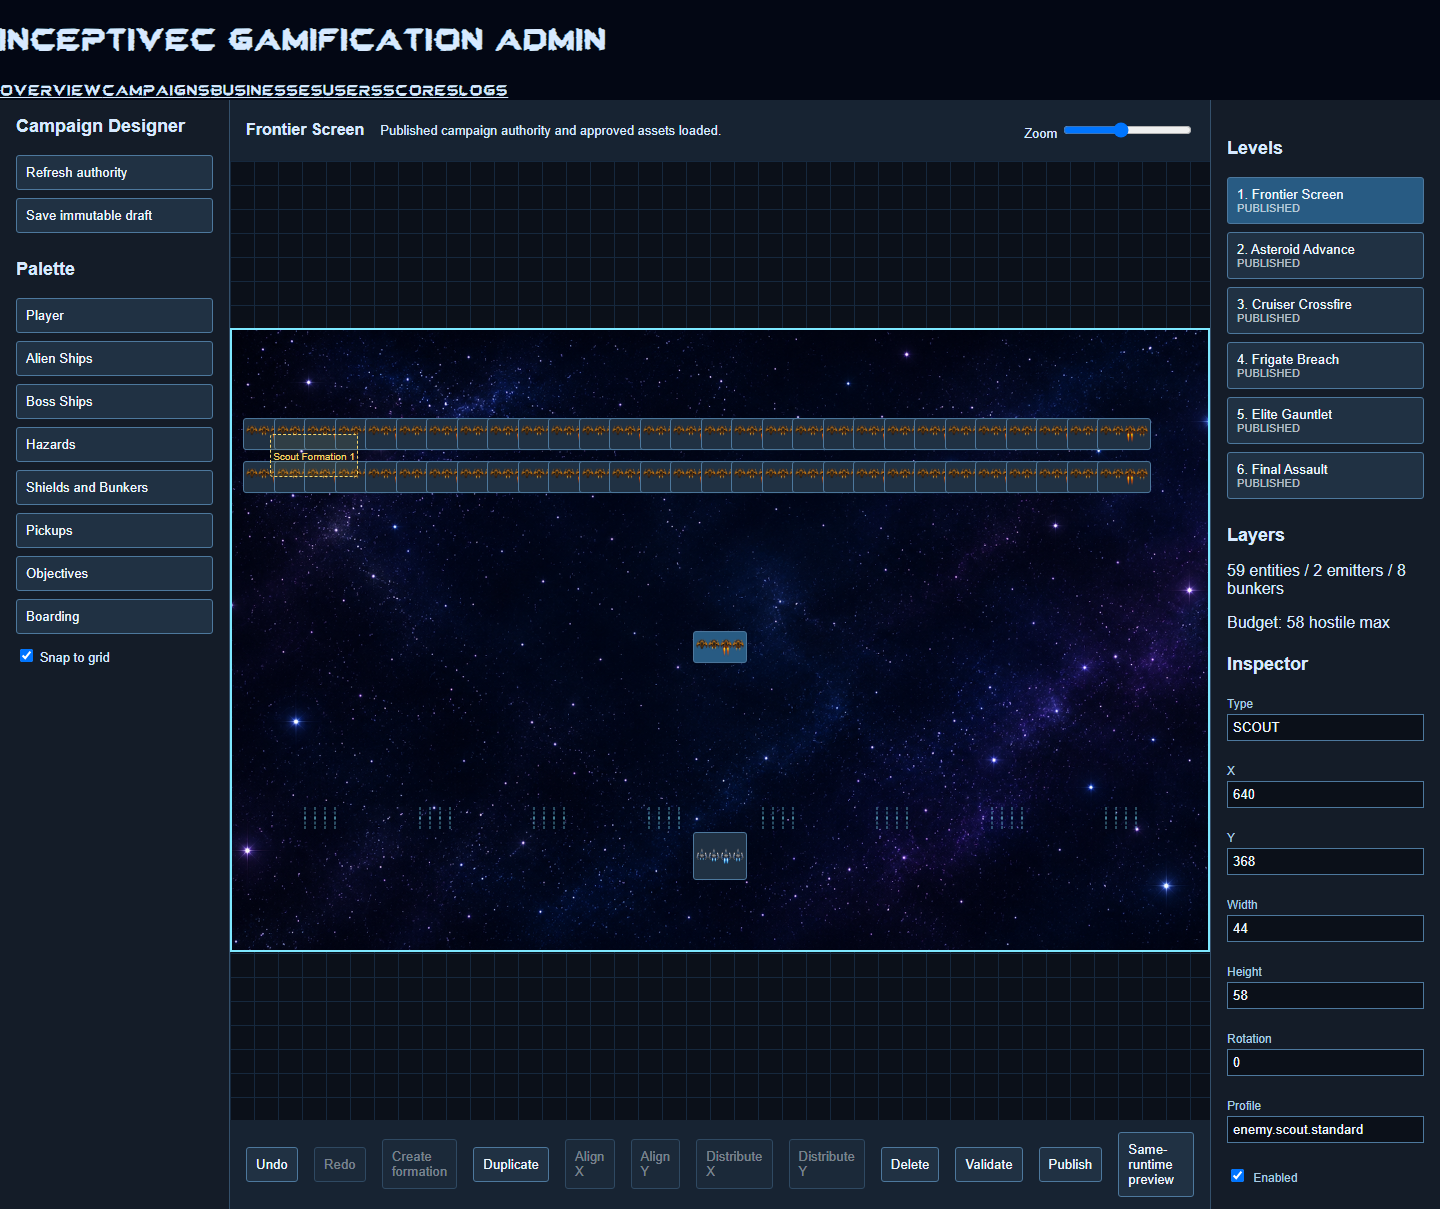
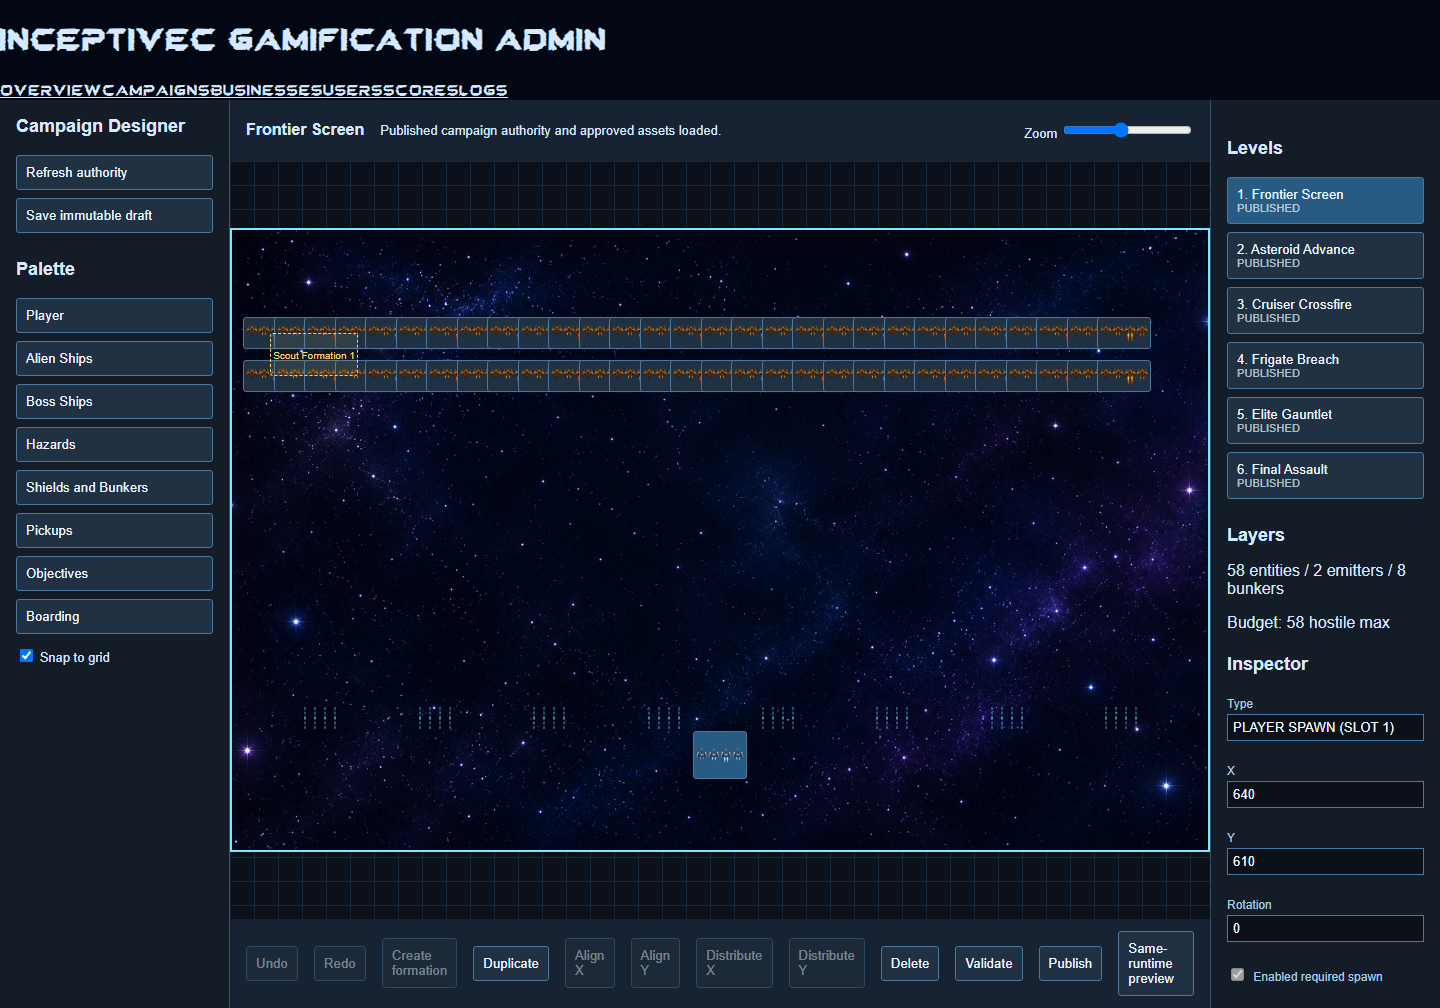
docs(h015): record rectified browser verification

diff --git a/docs/internal_governance/registers/GG_REGISTER_HANDOFF_COMMISSION.md b/docs/internal_governance/registers/GG_REGISTER_HANDOFF_COMMISSION.md
@@ -32,4 +32,4 @@
 | GALACTIC_GUNNERS_DEVTEAM_HANDOFF_IN_011_APP1_HOTFIX1 | HOTFIX1 | Founder Michael Leese | CODEX_DEVELOPMENT_AGENT_GG_DEVTEAM_011_WORKER_001 | feature/v1-config-driven-campaign-platform | ac60eb016543b11cb28bdf4f57c6385625901ebb | transport ZIP SHA 9978CDAF1353F64B2C1BFED931C062154C3D1D068340603404FC942EC74410B9; unpacked archive and POST_BOX disposition recorded | pooled projectile spawn/body reconciliation and Founder Level 1 corrections complete | GALACTIC_GUNNERS_DEVTEAM_HANDOFF_OUT_011_APP1_HOTFIX1 | recorded externally after final push | recorded externally after final push | PASS TARGET - CTO / FOUNDER GATE | PENDING CTO / FOUNDER REVIEW |
 | GALACTIC_GUNNERS_DEVTEAM_HANDOFF_IN_012_REV1_APP1 | REV1 APP1 | Founder Michael Leese | CODEX_DEVELOPMENT_AGENT_GG_DEVTEAM_012_WORKER_001 | feature/v1-config-driven-campaign-platform | 8aaab96500251005070a4d1561ac1930148ada89 | direct Founder instruction in active governed commission | campaign progression and production result UI correction | GALACTIC_GUNNERS_DEVTEAM_HANDOFF_OUT_012_REV1 | recorded externally after final push | recorded externally after final push | PASS TARGET - full quality, hostile and Docker gates required | PENDING CTO / FOUNDER REVIEW |
 | GALACTIC_GUNNERS_DEVTEAM_HANDOFF_IN_013 | BASE | Founder Michael Leese | CODEX_DEVELOPMENT_AGENT_GG_DEVTEAM_013_WORKER_001 | feature/v1-validated-runs-global-leaderboard | 16a22dba60b5e8193f2377962a6a7b1a49f386c4 | Founder-issued transport unpacked to governed Handoff archive; transport ZIP removed under transport-only policy | server-validated runs, global leaderboard, anti-cheat, ranking and moderation complete | GALACTIC_GUNNERS_DEVTEAM_HANDOFF_OUT_013 | recorded externally after final push | recorded externally after final push | PASS TARGET - Draft PR to dev / not merged | PENDING FOUNDER REVIEW |
-| GALACTIC_GUNNERS_DEVTEAM_HANDOFF_IN_015 | BASE + REV1 + additive | Founder Michael Leese | CODEX_DEVELOPMENT_AGENT_GG_DEVTEAM_015_WORKER_001 | feature/v1-platform-foundation-campaign-continuity | 3270be64c67863dc848ebad26e2a33daf8b70742 | canonical H015/REV1 members admitted in `docs/internal_governance/handoff_in/_archive`; transport ZIPs consumed and removed from POST_BOX | COMPLETE / FOUNDER_REVIEW_READY=YES / CI green / closure record sealed | GALACTIC_GUNNERS_DEVTEAM_HANDOFF_OUT_015 | repository seal in governed Handoff-Out archive; final closure SHA recorded externally after push | `745e5e9e49bdf2f81108b5d9c36d501f76e26390` implementation authority | PASS - Draft PR #12 open / not merged | FOUNDER REVIEW PENDING |
+| GALACTIC_GUNNERS_DEVTEAM_HANDOFF_IN_015 | BASE + REV1 + additive + closeout rectification | Founder Michael Leese | CODEX_DEVELOPMENT_AGENT_GG_DEVTEAM_015_WORKER_001 | feature/v1-platform-foundation-campaign-continuity | 3270be64c67863dc848ebad26e2a33daf8b70742 | canonical H015/REV1 members admitted in `docs/internal_governance/handoff_in/_archive`; transport ZIPs consumed and removed from POST_BOX | IN PROGRESS / FOUNDER_REVIEW_READY=NO / rectification gates active | GALACTIC_GUNNERS_DEVTEAM_HANDOFF_OUT_015 | superseded return being replaced after final CI and exact-build evidence | `745e5e9e49bdf2f81108b5d9c36d501f76e26390` implementation authority | IN PROGRESS - Draft PR #12 open / not merged | FOUNDER REVIEW NOT YET READY |

diff --git a/docs/internal_governance/evidence/GALACTIC_GUNNERS_DEVTEAM_HANDOFF_IN_015/H015_RUNTIME_VERIFICATION.md b/docs/internal_governance/evidence/GALACTIC_GUNNERS_DEVTEAM_HANDOFF_IN_015/H015_RUNTIME_VERIFICATION.md
@@ -1,26 +1,21 @@
-# H015 Runtime Verification
+# H015 Runtime Verification Authority
 
-**Handoff:** `GALACTIC_GUNNERS_DEVTEAM_HANDOFF_IN_015` with REV1 and additive authority  
-**Candidate SHA:** `e5becaff20d0857845b67119587eb6a8b8e84cf3`  
+**Handoff:** `GALACTIC_GUNNERS_DEVTEAM_HANDOFF_IN_015` BASE + REV1 + additive authority  
+**Rectification status:** `IN_PROGRESS`  
+**Current tested build:** `42e401d866bbdc77d9a20c48d857695ce34e0d45`  
 **Branch:** `feature/v1-platform-foundation-campaign-continuity`
 
-## Results
+## Superseded Preliminary Evidence
 
-- `npm run quality`: PASS.
-- Docker backend pytest: PASS, `38 passed`.
-- `npm run runtime:campaign`: PASS. Touch Continue loaded distinct Level 2 and completed the valid Level 1-6 chain, replay, Game Over, and menu paths with zero console or network failures.
-- `npm run runtime:boarding:hostile`: PASS.
-- GitHub Actions run `33118960366`: PASS. All jobs succeeded, including backend, contracts, Docker smoke, runtime-browser, runtime-hostile, campaign, Boarding, authentication, tenant isolation, score validation, moderation, and client/game quality.
-- Pooling correction: player laser, enemy laser, and nuke activation now use object-level body enablement followed by reset at the current visual spawn coordinate. A direct browser probe confirmed a visible enemy projectile and matching world-axis body after activation.
+The former candidate `e5becaff20d0857845b67119587eb6a8b8e84cf3` and CI run `33118960366` remain historical preliminary evidence only. They do not assert final review readiness and are superseded by this rectification record.
 
-## Browser Evidence
+## Current Results
 
-`final_runtime/hostile/` retains the responsive runtime screenshots, projectile/body captures, pause, result-state, and nuke captures from the correction run. `final_runtime/campaign/` contains campaign progression and result-state captures.
+- Fail-closed local Founder-review launcher: PASS after health, database authentication, migrations/no drift, idempotent seed/bootstrap, three-audience login, session, CSRF mutation, logout, protected-route denial, tenant isolation, Designer draft/reload, campaign availability, Boarding anchor, and container health checks.
+- Campaign browser progression: PASS through Levels 1-6, discrete touch Continue, replay, Game Over, final terminal state, and zero console/network failures. See `review_matrix/campaign/`.
+- Browser Designer and Command Post capture: PASS with zero console/network failures. See `review_matrix/browser-matrix-index.json`.
+- Corrected defects: duplicate immutable-draft checksum preview selection and Next.js asynchronous Command Post route parameter handling.
 
-## Boundary
+## Remaining Closure Work
 
-The H015, H015 REV1, and H014 imagery transport ZIPs were reconciled against their admitted canonical repository content and removed from the POST_BOX. The active POST_BOX contains boundary control files only.
-
-## Acceptance
-
-Automated verification is PASS. Founder acceptance remains PENDING; this record does not grant acceptance or merge authority.
+`FOUNDER_REVIEW_READY=NO` until the complete 23-item exact-build matrix, final CI at the final returned SHA, complete non-self-referential Handoff-Out, and seal are complete. Founder acceptance and merge remain pending.

diff --git a/docs/internal_governance/registers/GG_REGISTER_EVIDENCE.md b/docs/internal_governance/registers/GG_REGISTER_EVIDENCE.md
@@ -2,7 +2,7 @@
 
 | Evidence ID | Handoff | Type | Path | SHA/Ref | Created | Status | Notes |
 |---|---|---|---|---|---|---|---|
-| GG-DEVTEAM-015-EV-001 | GALACTIC_GUNNERS_DEVTEAM_HANDOFF_IN_015 | H015 platform/runtime/browser verification | `docs/internal_governance/evidence/GALACTIC_GUNNERS_DEVTEAM_HANDOFF_IN_015/H015_RUNTIME_VERIFICATION.md`; `.../final_runtime/` | GitHub Actions run 33118960366 PASS at candidate `e5becaff20d0857845b67119587eb6a8b8e84cf3`; Docker pytest 38 passed; campaign and Boarding runtime PASS | 2026-08-27 | CURRENT | H015 automatic gates pass; Founder review and merge remain pending. |
+| GG-DEVTEAM-015-EV-001 | GALACTIC_GUNNERS_DEVTEAM_HANDOFF_IN_015 | H015 rectified platform/runtime/browser verification | `docs/internal_governance/evidence/GALACTIC_GUNNERS_DEVTEAM_HANDOFF_IN_015/H015_RUNTIME_VERIFICATION.md`; `.../review_matrix/` | Current tested build `42e401d866bbdc77d9a20c48d857695ce34e0d45`; fail-closed launcher, protected browser and campaign evidence current; `e5becaff...`/run `33118960366` superseded preliminary evidence | 2026-08-28 | IN PROGRESS | Final exact-build matrix, CI and sealed return remain required before Founder review. |
 | GG-COM-001-EV-001 | GALACTIC_GUNNERS_GG_COM_001_HANDOFF_IN_001 | inbound preserved | `docs/internal_governance/handoff_in/_archive/GALACTIC_GUNNERS_GG_COM_001_HANDOFF_IN_001/` | 3417782E3D629FD8F9884C36DE354C4ED171EAA80DCB413F72AA4CAEA19B4C65 | 2026-08-23 | CURRENT | Original inbound package and extracted CTO baseline preserved outside POST_BOX. |
 | GG-COM-001-EV-002 | GALACTIC_GUNNERS_GG_COM_001_HANDOFF_IN_001 | CTO baseline | `docs/internal_governance/handoff_in/_archive/GALACTIC_GUNNERS_GG_COM_001_HANDOFF_IN_001/03_WORKING_COPY_IF_REQUIRED/` | manifest present | 2026-08-23 | CURRENT | Approved GG-COM-001 CTO baseline used as governing specification. |
 | GG-COM-001-EV-003 | GALACTIC_GUNNERS_GG_COM_001_HANDOFF_IN_001 | execution evidence | `docs/internal_governance/evidence/GALACTIC_GUNNERS_GG_COM_001_HANDOFF_IN_001/execution_smoke/` | browser-smoke-result.json | 2026-08-23 | CURRENT | Bounded browser smoke evidence preserved. |
